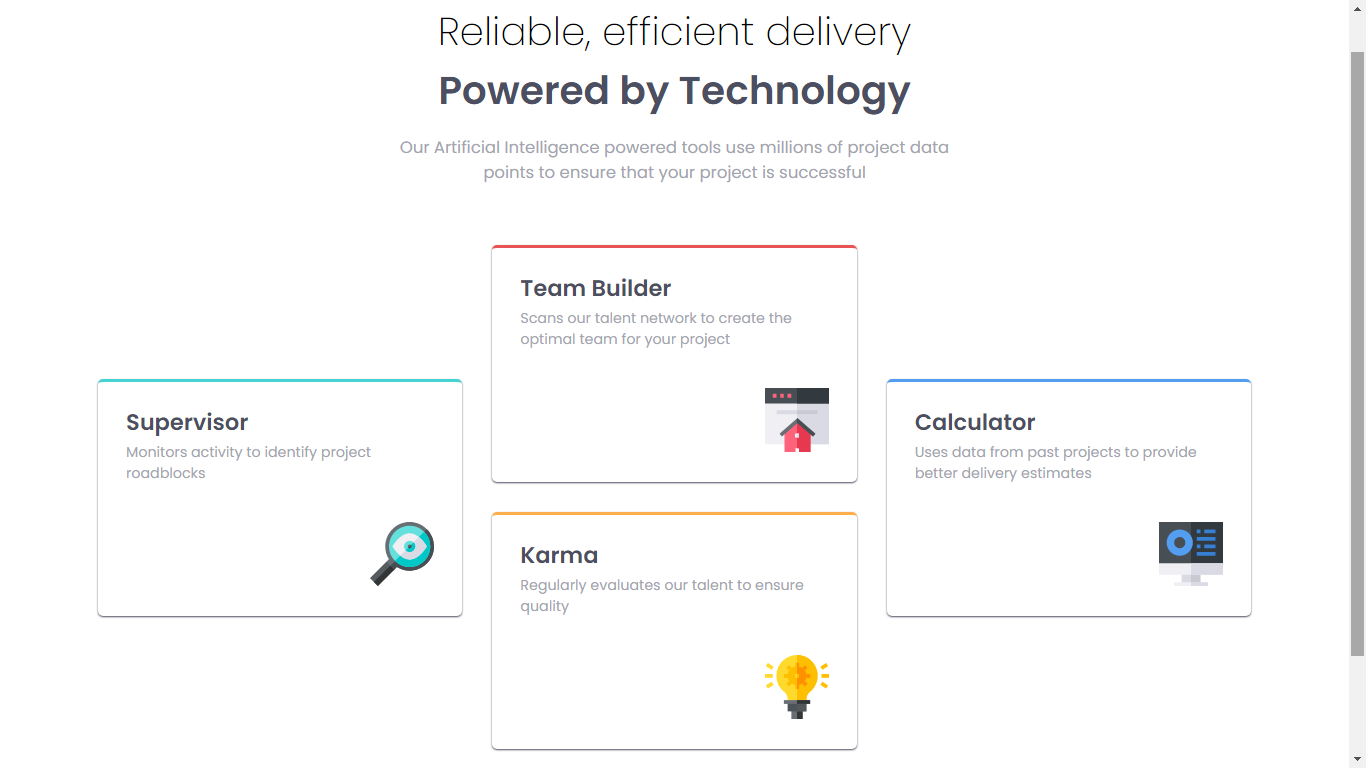
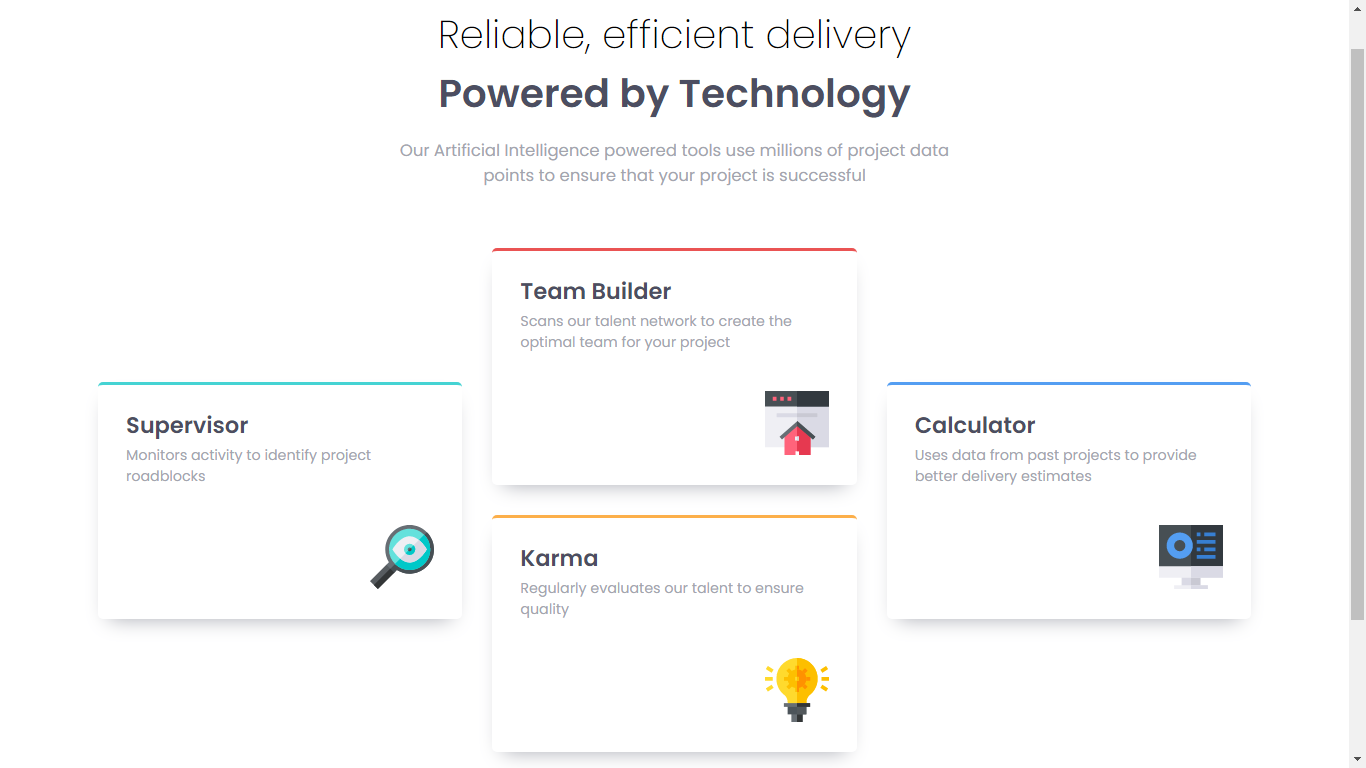
added box shadow effect

diff --git a/sass/main.scss b/sass/main.scss
@@ -47,8 +47,11 @@
     border-radius: 5px;
     padding: 23px 28px 30px;
     row-gap: 3px;
-    box-shadow: 0 1px 2px 0px $Very-Dark-Blue;
+    box-shadow: 0px 15px 20px -11px $Grayish-Blue;
 
+    &:hover {
+      box-shadow: 0px 15px 20px 5px $Grayish-Blue;
+    }
     .title {
       font-size: 1.5rem;
       font-weight: 600;

diff --git a/css/main.css b/css/main.css
@@ -56,7 +56,11 @@
   border-radius: 5px;
   padding: 23px 28px 30px;
   row-gap: 3px;
-  box-shadow: 0 1px 2px 0px #4c4e61;
+  box-shadow: 0px 15px 20px -11px #a3a5ae;
+}
+
+.boxes-container .boxes:hover {
+  box-shadow: 0px 15px 20px 5px #a3a5ae;
 }
 
 .boxes-container .boxes .title {
